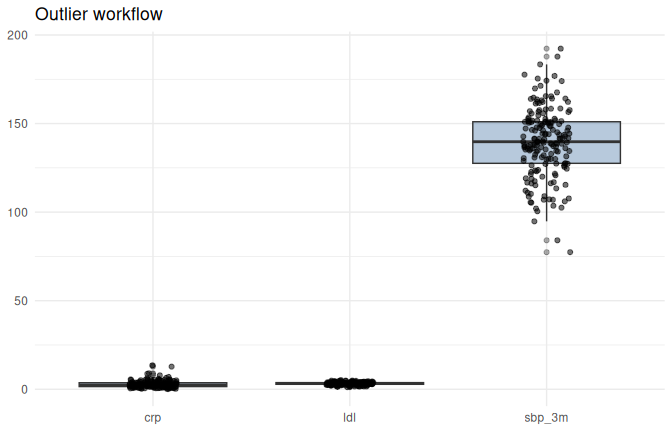
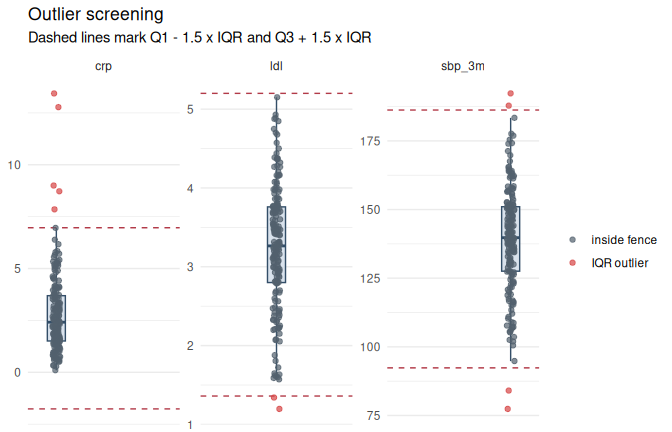
Clarify outlier screening plot

diff --git a/README.md b/README.md
@@ -216,6 +216,10 @@ plot(categorical)
 
 ### Outlier Screening
 
+For IQR screening, points below `Q1 - 1.5 x IQR` or above
+`Q3 + 1.5 x IQR` are flagged. The dashed lines show those fences and red
+points are detected outliers.
+
 ``` r
 plot(outliers)
 ```